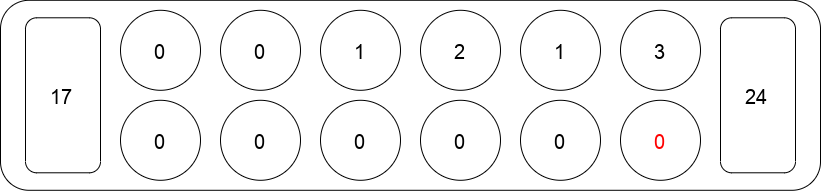
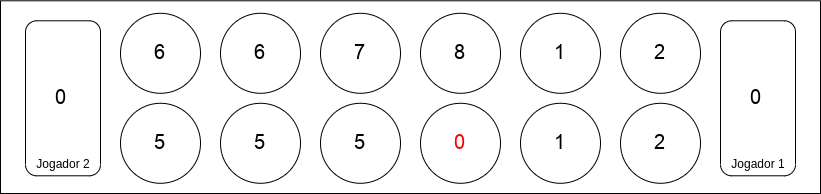
GUI feito

diff --git a/H1/main.py b/H1/main.py
@@ -4,9 +4,25 @@ import time
 from pyswip import Prolog
 from joga import faz_jogada
 from tab import draw_board
+import tkinter as tk
+from tkinter import simpledialog
 
+def gui_input():
+    window = tk.Tk()
+    window.withdraw()
+    escolha = simpledialog.askinteger(title="Escolha",
+                                    prompt="Que casa escolhe?")
 
-def jogada_ia(tabuleiro, primeiro):
+    if escolha == None:
+        exit(1)
+    return escolha
+
+def gui_display(img_sp):
+    img_sp.kill()
+    new_img_sp = subprocess.Popen(["display", "Jogada.png"])
+    return new_img_sp
+
+def jogada_ia(tabuleiro, primeiro, GUI):
     if(primeiro):
         if(max(tabuleiro[:6]) == 0):
             print(0)
@@ -31,8 +47,6 @@ def jogada_ia(tabuleiro, primeiro):
         print(escolhaBot)
         return tabuleiro
 
-    #//TODO escolha == -1
-
     #faz jogada
     tabuleiro_n, pontos = faz_jogada(tabuleiro[2:], escolhaBot)
 
@@ -53,13 +67,16 @@ def jogada_ia(tabuleiro, primeiro):
     time_diff = int(time.time() * 1000) - start_time
     print("demorou: " + str(time_diff / 1000))
 
-    print(tabuleiro_n[2:])
-
-    draw_board(tabuleiro_n, escolhaBot)
+    if(GUI):
+        draw_board(tabuleiro_n, escolhaBot)
     return tabuleiro_n
 
-def jogada_adv(tabuleiro, primeiro):
-    escolha = int(input())  # recebe jogada
+def jogada_adv(tabuleiro, primeiro,GUI):
+    
+    if(GUI):
+        escolha = gui_input()
+    else:
+        escolha = int(input())  # recebe jogada
 
     if(escolha == 0):       #nao altera
         return tabuleiro
@@ -80,8 +97,8 @@ def jogada_adv(tabuleiro, primeiro):
         tabuleiro_n.insert(0, pontos)
         tabuleiro_n.insert(0, tabuleiro[0])
 
-
-    draw_board(tabuleiro_n, escolha)
+    if(GUI):
+        draw_board(tabuleiro_n, escolha)
     return tabuleiro_n
 
 def fim_jogo(tabuleiro):
@@ -123,13 +140,16 @@ def fim_jogo(tabuleiro):
 
 
 if __name__ == '__main__':
+    # inicializa a ligacao ao prolog
     prolog = Prolog()
     prolog.consult("base.pl")
-    prolog.consult(sys.argv[3])
+    prolog.consult(sys.argv[5] + ".pl")
     profundidade = 0
-    if(sys.argv[3] == "minimax.pl"):
+
+    if(sys.argv[5] == "minimax"):
         profundidade = 1
 
+    # argumento 1 (primeiro ou segundo)
     if(sys.argv[1] != "p" and sys.argv[1] != "-p" and
         sys.argv[1] != "s" and sys.argv[1] != "-s"):
         print("Argumentos errados: -p / -s")
@@ -140,16 +160,15 @@ if __name__ == '__main__':
     if primeiro:
         prolog.asserta("jogador(p1)")
         prolog.consult("1.pl")  #regras para o jogador 1
-
     else:
         prolog.asserta("jogador(p2)")
         prolog.consult("2.pl")
 
+    # argumento 2 (nivel)
     if(sys.argv[2] != "1" and sys.argv[2] != "2" and
         sys.argv[2] != "3"):
         print("Argumentos errados: 1 / 2 / 3")
         exit(1)
-
     if(sys.argv[2] == "1"):
         prolog.asserta("profundidade(%d)" %(7 + profundidade))
     elif(sys.argv[2] == "2"):
@@ -157,35 +176,62 @@ if __name__ == '__main__':
     elif(sys.argv[2] == "3"):
         prolog.asserta("profundidade(%d)" %(9 + profundidade))
     
-    tabuleiro = [0,0,4,4,4,4,4,4,4,4,4,4,4,4]
-    draw_board(tabuleiro, 16)
-    img_proc = subprocess.Popen(["display", "Jogada.png"])
+    # argumento 3 (TEMPO)
+    DISPLAY_TIME = False
+    if(len(sys.argv) >= 4):
+        if(sys.argv[3] == "true"):
+            DISPLAY_TIME = True
+        elif(sys.argv[3] == "false"):
+            DISPLAY_TIME = False
+        else:
+            print("Argumentos errados: true / false")
+            exit(1)
 
+
+    # argumento 4 (GUI)
+    GUI = False
+    if(len(sys.argv) >= 5):
+        if(sys.argv[4] == "gui"):
+            GUI = True
+        elif(sys.argv[4] == "no-gui"):
+            GUI = False
+        else:
+            print("Argumentos errados: gui / no-gui")
+            exit(1)
+
+    
+    tabuleiro = [0,0,4,4,4,4,4,4,4,4,4,4,4,4]
+    
+    if(GUI):
+        draw_board(tabuleiro, 16)
+        img_sp = subprocess.Popen(["display", "Jogada.png"])
+
+    # ciclo principal
     while True:
         if(primeiro):
-            tabuleiro = jogada_ia(tabuleiro, primeiro)
-            img_proc.kill()
-            img_proc = subprocess.Popen(["display", "Jogada.png"])
+            tabuleiro = jogada_ia(tabuleiro, primeiro, GUI)
+            if(GUI):
+                img_sp = gui_display(img_sp)
 
             if(fim_jogo(tabuleiro)):
                 break
 
-        tabuleiro = jogada_adv(tabuleiro, primeiro)
-        img_proc.kill()
-        img_proc = subprocess.Popen(["display", "Jogada.png"])
+        tabuleiro = jogada_adv(tabuleiro, primeiro, GUI)
+        if(GUI):
+            img_sp = gui_display(img_sp)
 
         if(fim_jogo(tabuleiro)):
             break
 
         if(not primeiro):
-            tabuleiro = jogada_ia(tabuleiro, primeiro)
-            img_proc.kill()
-            img_proc = subprocess.Popen(["display", "Jogada.png"])
+            tabuleiro = jogada_ia(tabuleiro, primeiro, GUI)
+            if(GUI):
+                img_sp = gui_display(img_sp)
     
             if(fim_jogo(tabuleiro)):
                 break
 
-
+    #fim de jogo
     if(tabuleiro[0] < 24 and tabuleiro[1] < 24):
         for i in range(6):
             tabuleiro[0] += tabuleiro[2 + i]
@@ -198,4 +244,4 @@ if __name__ == '__main__':
     else:
         print("perdi!")
 
-    img_proc.kill()
+    img_sp.kill()
